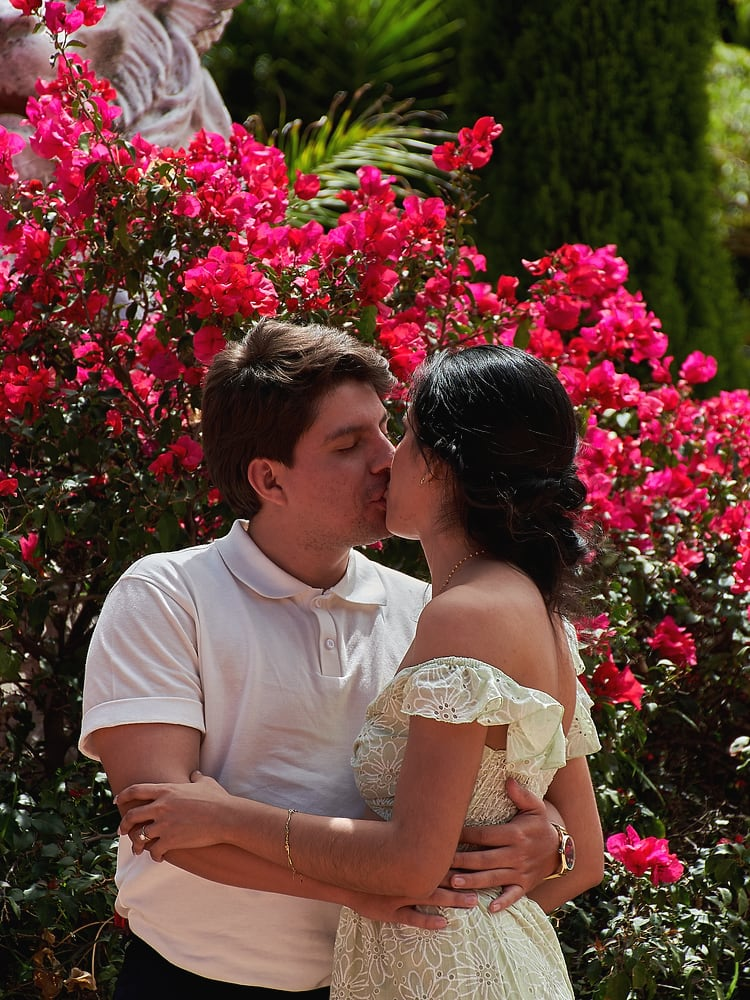
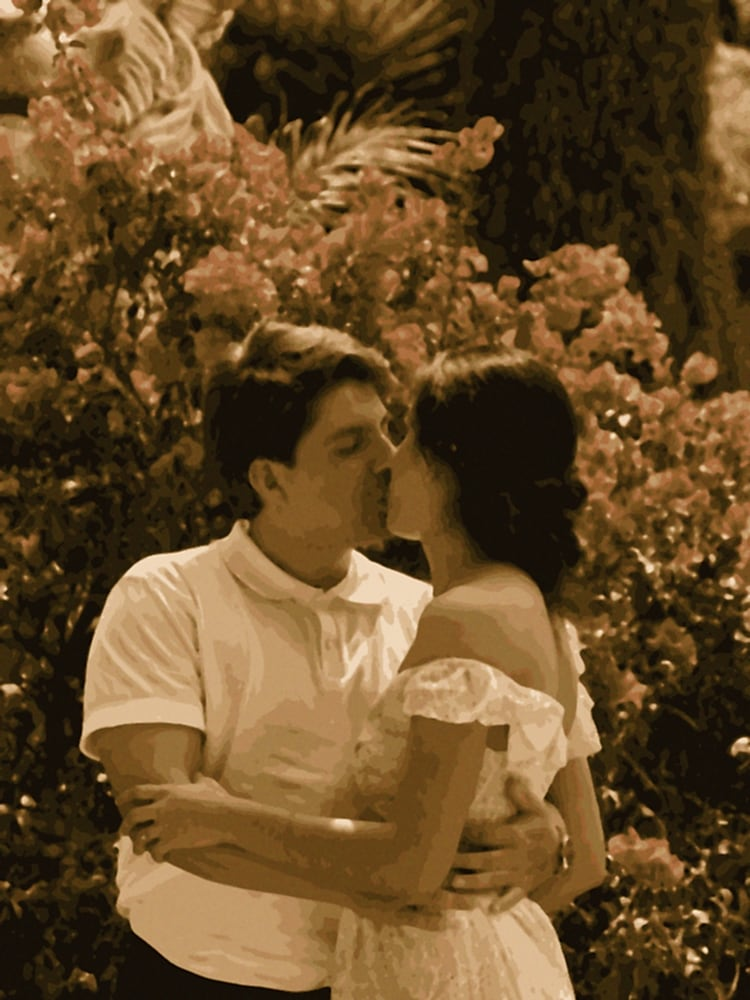
Portada en acuarela sepia, texto bajo la foto en Nos casamos y corona más grande en Nosotros

diff --git a/public/index.html b/public/index.html
@@ -7,7 +7,7 @@
 <link rel="preconnect" href="https://fonts.googleapis.com">
 <link rel="preconnect" href="https://www.gstatic.com" crossorigin>
 <link href="https://fonts.googleapis.com/css2?family=Fraunces:ital,wght@0,500;0,600;0,700;1,500&family=Cormorant+Garamond:ital,wght@0,400;0,500;1,400&family=Alex+Brush&family=Mrs+Saint+Delafield&family=Lato:wght@400;700&display=swap" rel="stylesheet">
-<link rel="stylesheet" href="css/style.css?v=40">
+<link rel="stylesheet" href="css/style.css?v=41">
 </head>
 <body class="cover-active">
 
@@ -51,12 +51,13 @@
 
 <!-- Contenido de la invitación -->
 <section class="hero reveal">
-  <p class="eyebrow">Nos casamos</p>
-  <h1 class="hero__names">Alondra<span class="hero__and">&amp;</span>Julio</h1>
   <div class="hero__photo">
     <img src="img/fotos/hero.jpg" alt="Alondra y Julio">
   </div>
-  <img class="divider divider--hero" src="img/guirnalda.png" alt="">
+  <div class="hero__text">
+    <p class="eyebrow">Nos casamos</p>
+    <h1 class="hero__names">Alondra<span class="hero__and">&amp;</span>Julio</h1>
+  </div>
 </section>
 
 <section class="section reveal">

diff --git a/public/css/style.css b/public/css/style.css
@@ -1529,3 +1529,21 @@ body.visor-abierto { overflow: hidden; }
   .cover__portrait, .cover__portrait img, .hero__photo img { animation: none; }
   .foto-banner__img { transform: none; }
 }
+
+/* --- Ajustes: "Nos casamos" con el texto bajo la foto; "Nosotros" más grande --- */
+.hero { padding-top: 1.5rem; padding-bottom: 3rem; justify-content: flex-start; }
+
+.hero__photo { margin: 0 auto -2.4rem; }
+.hero__photo img { max-height: 66vh; object-position: 50% 45%; }
+
+.hero__text { position: relative; z-index: 1; }
+.hero__text .eyebrow { margin-bottom: 0.2rem; }
+.hero__text .hero__names { margin-top: 0; }
+
+.couple-photo-frame { width: 480px; max-width: 94vw; }
+.couple-photo { width: 62%; height: 62%; }
+
+@media (max-width: 480px) {
+  .hero__photo { margin-bottom: -1.6rem; }
+  .hero__photo img { max-height: 56vh; }
+}

diff --git a/public/admin.html b/public/admin.html
@@ -8,7 +8,7 @@
 <link rel="preconnect" href="https://fonts.googleapis.com">
 <link rel="preconnect" href="https://www.gstatic.com" crossorigin>
 <link href="https://fonts.googleapis.com/css2?family=Fraunces:wght@500;600&family=Cormorant+Garamond:wght@400;500&family=Lato:wght@400;700&display=swap" rel="stylesheet">
-<link rel="stylesheet" href="css/style.css?v=40">
+<link rel="stylesheet" href="css/style.css?v=41">
 <link rel="stylesheet" href="css/admin.css?v=1">
 </head>
 <body class="admin-body">
